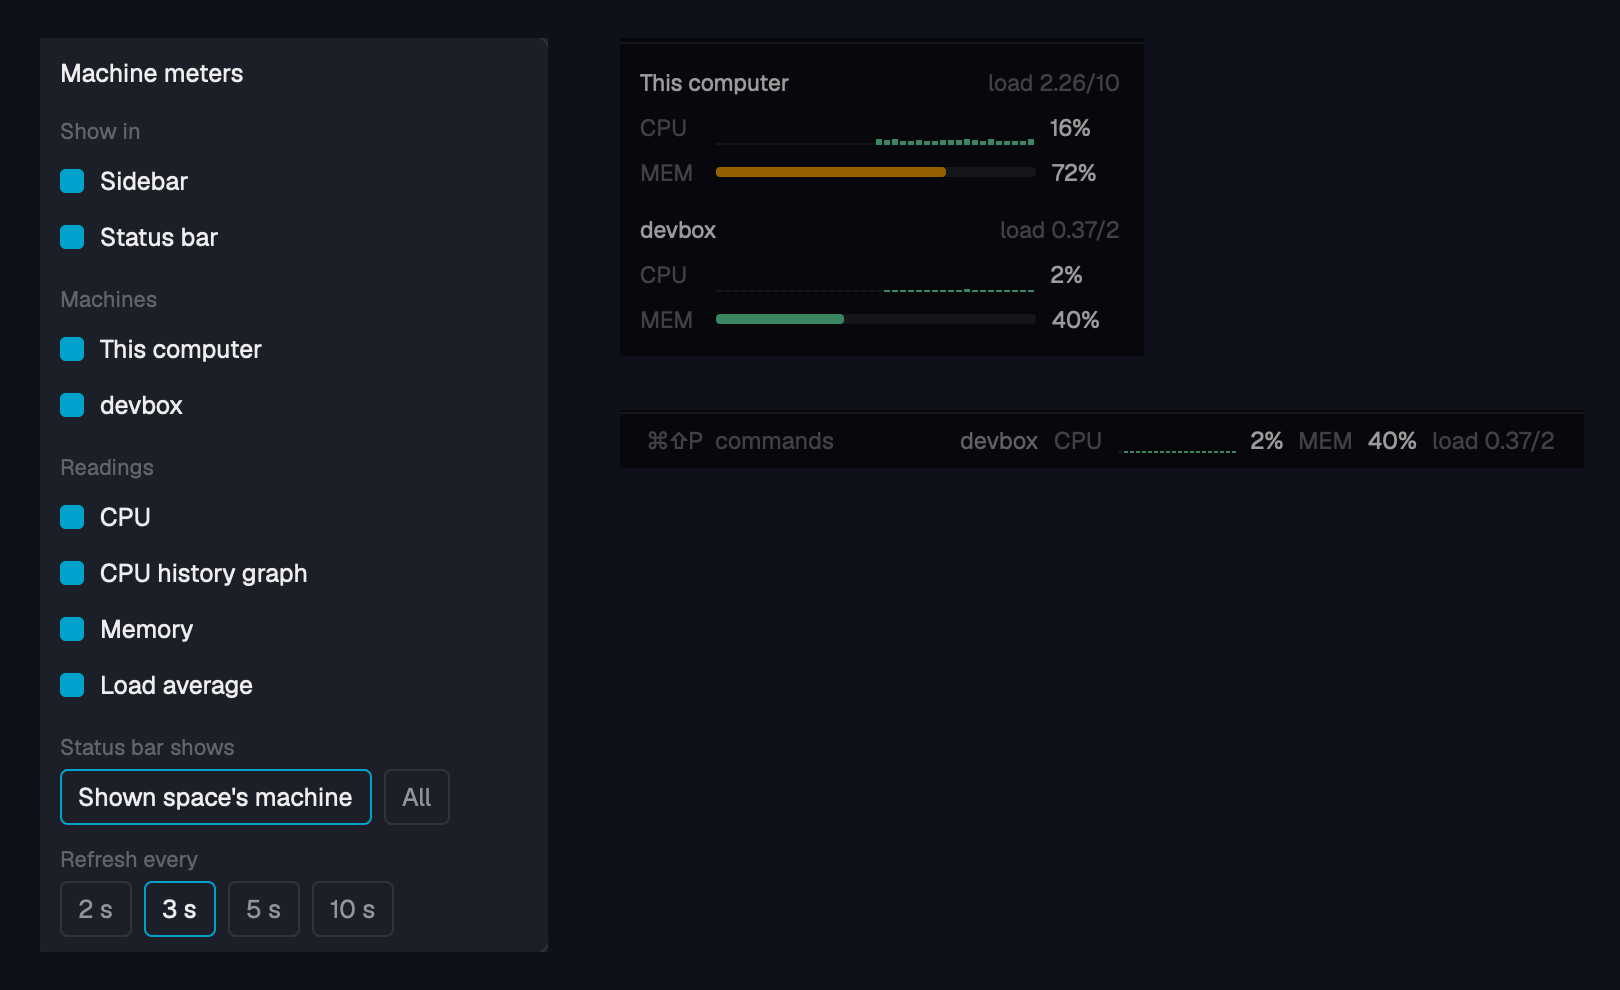
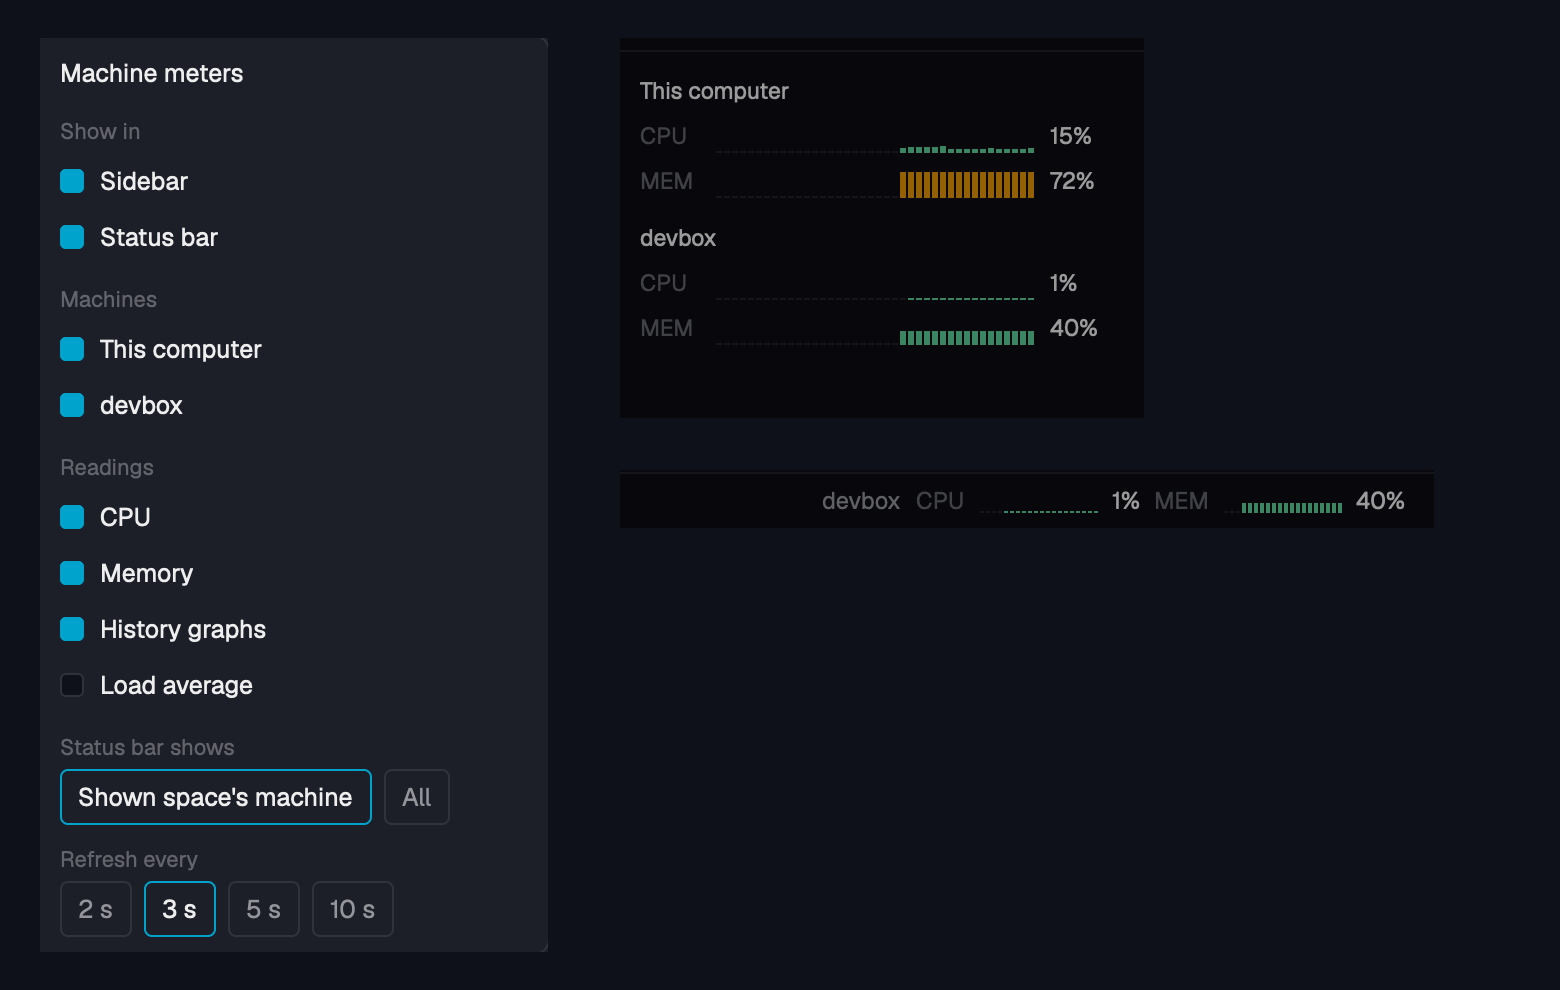
Memory history graph; options open in the middle of the window
The options opened at the pointer, and both meters sit at the window's
bottom edge, so the Show in and Machines sections were cut off.

diff --git a/mods/machine-meters/main.js b/mods/machine-meters/main.js
@@ -5,6 +5,7 @@ import { exec, machines, spaces, theme, props, shared, setShared, layout, run, o
 // CPU, memory and load of this computer and every connected machine (Linux and macOS):
 // a card per machine in the sidebar, and/or one line in the status bar (props: { variant: "bar" }).
 // A click opens the options (where to show, which machines, what to show); every copy shares them.
+// Both readings keep a history of the last 40 samples.
 const MOD = "machine-meters";
 const DEFAULTS = { interval: 3, cpu: true, mem: true, load: true, graph: true, bar: "active", hidden: [] };
 const opts = () => ({ ...DEFAULTS, ...(shared(MOD) || {}) });
@@ -20,6 +21,7 @@ else echo unsupported; fi`;
 // One sampler for every copy of the mod (module code is shared by copies): a sidebar card and a
 // status bar line cost one probe per machine, not two.
 const store = { m: {}, at: 0, busy: false, rev: 0 };
+const push = (hist, v) => { hist.push(Math.max(0, Math.round(v))); if (hist.length > POINTS) hist.shift(); };
 
 function parse(text, s) {
   const out = text.trim().split("\n");
@@ -44,10 +46,8 @@ function parse(text, s) {
     s.mem = Number(out[2]) ? Math.round((100 * used) / Number(out[2])) : null;
     cpu = Math.min(100, Number((text.match(/^cpu ([\d.]+)/m) || [0, 0])[1]) / (s.cores || 1));
   }
-  if (cpu != null) {
-    s.cpu.push(Math.max(0, Math.round(cpu)));
-    if (s.cpu.length > POINTS) s.cpu.shift();
-  }
+  if (cpu != null) push(s.cpu, cpu);
+  if (s.mem != null) push(s.mems, s.mem);
 }
 
 async function sample() {
@@ -56,7 +56,7 @@ async function sample() {
   const hidden = opts().hidden;
   const targets = machines().filter((m) => !hidden.includes(m.name ?? "") && (!m.name || m.layout !== "unavailable"));
   await Promise.all(targets.map(async ({ name }) => {
-    const s = (store.m[name ?? ""] ??= { cpu: [] });
+    const s = (store.m[name ?? ""] ??= { cpu: [], mems: [] });
     try {
       parse((await exec("sh", ["-c", PROBE], { on: name, timeout: 5000 })).stdout, s);
       s.ok = s.os === "linux" || s.os === "darwin";
@@ -93,7 +93,7 @@ function setPlace(place, on) {
   if (place === "bar") {
     const status = find(tree, "status");
     if (!status) return null;
-    const bar = { id: "status-meters", type: "block", size: { px: 360 }, content: { mod: MOD, props: { variant: "bar" } } };
+    const bar = { id: "status-meters", type: "block", size: { px: 430 }, content: { mod: MOD, props: { variant: "bar" } } };
     if (status.type === "block") {
       const main = { id: "status-main", type: "block", size: { weight: 1 }, content: status.content };
       delete status.content;
@@ -105,7 +105,7 @@ function setPlace(place, on) {
     const at = sidebar.children.findIndex((c) => c.id === "sidebar-footer");
     const shown = Math.max(1, machines().length - opts().hidden.length);
     sidebar.children.splice(at < 0 ? sidebar.children.length : at, 0,
-      { id: "meters", type: "block", size: { px: 12 + 73 * shown }, content: { mod: MOD } });
+      { id: "meters", type: "block", size: { px: 12 + 86 * shown }, content: { mod: MOD } });
   }
   return run("layout.set", { layout: tree });
 }
@@ -143,8 +143,8 @@ export default class MachineMeters extends View {
       .map(([key, s]) => ({ name: key || LOCAL, s }));
   }
 
-  graph(s, t, tone, w, h, n) {
-    const hist = Array.from({ length: n }, (_, i) => s.cpu[s.cpu.length - n + i]);
+  graph(samples, t, tone, w, h, n) {
+    const hist = Array.from({ length: n }, (_, i) => samples[samples.length - n + i]);
     return h_flex().h(h).gap(1).items_end().children(
       hist.map((p) => div().w(w).h(Math.max(1, ((p ?? 0) * h) / 100)).bg(p == null ? t.border : tone(p))));
   }
@@ -178,7 +178,7 @@ export default class MachineMeters extends View {
       .child(head("Show in")).child(place("panel", "Sidebar")).child(place("bar", "Status bar"))
       .child(head("Machines")).children(machines().map(machine))
       .child(head("Readings"))
-      .child(toggle("cpu", "CPU")).child(toggle("graph", "CPU history graph")).child(toggle("mem", "Memory")).child(toggle("load", "Load average"))
+      .child(toggle("cpu", "CPU")).child(toggle("mem", "Memory")).child(toggle("graph", "History graphs")).child(toggle("load", "Load average"))
       .child(head("Status bar shows"))
       .child(h_flex().gap(6).px(6).child(choice("bar", "active", "Shown space's machine")).child(choice("bar", "all", "All")))
       .child(head("Refresh every"))
@@ -189,7 +189,7 @@ export default class MachineMeters extends View {
     if (this.isSettings()) return this.settings();
     const t = theme(), o = opts();
     const tone = (p) => (p >= 85 ? t.ansi1 : p >= 60 ? t.ansi3 : t.ansi2);
-    const open = () => openOverlay({ mod: MOD, props: { view: "settings" }, kind: "popup", width: 260, height: 396 + 26 * machines().length, at: "pointer" });
+    const open = () => openOverlay({ mod: MOD, props: { view: "settings" }, kind: "dialog", width: 260, height: 396 + 26 * machines().length });
     const dim = (text) => div().text_color(t.dim).child(text);
     const val = (text) => div().text_color(t.foreground).child(text);
 
@@ -200,8 +200,8 @@ export default class MachineMeters extends View {
         .text_size(11.8).on_click(open).children(rows.map(({ name, s }) => {
           const cpu = s.cpu.at(-1);
           return h_flex().gap(7).items_center().child(div().text_color(t.muted).child(name))
-            .when(o.cpu, (el) => el.child(dim("CPU")).when(o.graph, (e) => e.child(this.graph(s, t, tone, 2, 12, 20))).child(val(cpu == null ? "–" : `${cpu}%`)))
-            .when(o.mem, (el) => el.child(dim("MEM")).child(val(s.mem == null ? "–" : `${s.mem}%`)))
+            .when(o.cpu, (el) => el.child(dim("CPU")).when(o.graph, (e) => e.child(this.graph(s.cpu, t, tone, 2, 12, 20))).child(val(cpu == null ? "–" : `${cpu}%`)))
+            .when(o.mem, (el) => el.child(dim("MEM")).when(o.graph, (e) => e.child(this.graph(s.mems, t, tone, 2, 12, 20))).child(val(s.mem == null ? "–" : `${s.mem}%`)))
             .when(o.load && Boolean(s.load), (el) => el.child(dim(`load ${s.load}/${s.cores}`)));
         }));
     }
@@ -212,8 +212,8 @@ export default class MachineMeters extends View {
       return v_flex().gap(4)
         .child(h_flex().justify_between().child(div().text_color(t.foreground).font_semibold().child(name))
           .child(dim(o.load && s.load ? `load ${s.load}/${s.cores}` : "")))
-        .when(o.cpu, (el) => el.child(line("CPU", o.graph ? this.graph(s, t, tone, 3, 18, POINTS) : this.meter(cpu, t, tone, POINTS * 4), cpu == null ? "–" : `${cpu}%`)))
-        .when(o.mem, (el) => el.child(line("MEM", this.meter(s.mem, t, tone, POINTS * 4), s.mem == null ? "–" : `${s.mem}%`)));
+        .when(o.cpu, (el) => el.child(line("CPU", o.graph ? this.graph(s.cpu, t, tone, 3, 18, POINTS) : this.meter(cpu, t, tone, POINTS * 4), cpu == null ? "–" : `${cpu}%`)))
+        .when(o.mem, (el) => el.child(line("MEM", o.graph ? this.graph(s.mems, t, tone, 3, 18, POINTS) : this.meter(s.mem, t, tone, POINTS * 4), s.mem == null ? "–" : `${s.mem}%`)));
     });
     return v_flex().id("meters-panel").size_full().bg(t.chrome).border_t(1).border_color(t.border).px(14).py(10).gap(10).text_size(11.5)
       .overflow_y_scrollbar().on_click(open).children(rows.length ? rows : [dim("waiting for machines…")]);

diff --git a/RECIPE.md b/RECIPE.md
@@ -10,17 +10,18 @@ Live CPU, memory and load for this computer and every machine added to Herdr, as
 
 - A title row: the machine's name in `foreground`, semibold, on the left (`This computer` for the local one); `load 0.45/2` in `dim` on the right (1-minute load average over the core count).
 - A `CPU` row: the label in `dim`, 30 px wide; a history graph of the last 40 samples, 18 px high, each sample a 3 px bar with 1 px between, missing samples a 1 px bar in `border`; then the current percentage in `foreground`.
-- A `MEM` row: the same label; a 160 px by 5 px rounded track in `border` filled to the used share; then the percentage.
+- A `MEM` row: the same label, the same graph of the used share, then the percentage.
+- Without history graphs, each row draws a 160 px by 5 px rounded track in `border`, filled to the current value.
 
-**Status bar line** (a 360 px block at the right end of the 28 px status row, `chrome` background, 1 px top border, text 11.8 px, content right-aligned): the machine's name in `muted`, `CPU` in `dim`, a 20-sample graph 12 px high with 2 px bars, the percentage, `MEM` and its percentage, then `load 0.45/2` in `dim`. Groups are 18 px apart, items in a group 7 px.
+**Status bar line** (a 430 px block at the right end of the 28 px status row, `chrome` background, 1 px top border, text 11.8 px, content right-aligned): the machine's name in `muted`, `CPU` in `dim`, a 20-sample graph 12 px high with 2 px bars, the percentage, `MEM` with the same graph and its percentage, then `load 0.45/2` in `dim`. Groups are 18 px apart, items in a group 7 px.
 
 **Colors of bars and fills:** `ansi2` (green) below 60%, `ansi3` (yellow) from 60%, `ansi1` (red) from 85%.
 
-**Options popup** (260 px wide, `popover` background, text 12.5 px): the title `Machine meters`, then five sections with an 11 px `dim` heading each:
+**Options dialog** (260 px wide, in the middle of the window, `popover` background, text 12.5 px): the title `Machine meters`, then five sections with an 11 px `dim` heading each:
 
 1. `Show in`: `Sidebar`, `Status bar`.
 2. `Machines`: `This computer` and one row per machine.
-3. `Readings`: `CPU`, `CPU history graph`, `Memory`, `Load average`.
+3. `Readings`: `CPU`, `Memory`, `History graphs`, `Load average`.
 4. `Status bar shows`: two chips, `Shown space's machine` and `All`.
 5. `Refresh every`: four chips, `2 s`, `3 s`, `5 s`, `10 s`.
 
@@ -33,8 +34,8 @@ A row is a 12 px rounded box (filled `accent` when on, `surface` with an `input`
 - The status bar shows the machine of the shown space, and changes when the space does. With `All` it shows every ticked machine.
 - A machine that is offline, or that has no `sh` (Windows), is left out. It comes back when a probe succeeds.
 - Until the first sample arrives the card says `waiting for machines…`; a Linux machine shows a dash for CPU until its second sample.
-- Without `CPU history graph`, the sidebar draws CPU as a bar like memory and the status bar drops the graph.
-- A click anywhere on the card or the line opens the options at the pointer. Esc closes them.
+- Without `History graphs`, the sidebar draws CPU and memory as bars and the status bar shows only the numbers.
+- A click anywhere on the card or the line opens the options. Esc closes them.
 - `Sidebar` and `Status bar` show or hide that block. If the shown layout has no such block, ticking adds one: the sidebar block before the node `sidebar-footer` in the column `sidebar`; the status bar block at the right end of the node `status` (a lone status block becomes a row that keeps it). A place the layout has no block for is marked `not in this layout`.
 - Unticking a machine hides it and stops sampling it.
 - `herdr-app do mod.open --name machine-meters` opens the options without a block on screen.
@@ -42,10 +43,10 @@ A row is a 12 px rounded box (filled `accent` when on, `surface` with an `input`
 ## Built from
 
 - One mod, `mods/machine-meters/`: `main.js` and `mod.json` (`{ "place": "none", "overlay": { "width": 260, "height": 460 } }`).
-- Props: none for the sidebar card; `{ "variant": "bar" }` for the status bar line; `{ "view": "settings" }` for the options popup. Opened as an overlay with no variant, the mod shows the options.
+- Props: none for the sidebar card; `{ "variant": "bar" }` for the status bar line; `{ "view": "settings" }` for the options dialog. Opened as an overlay with no variant, the mod shows the options.
 - From `herdr`: `exec`, `machines`, `spaces`, `theme`, `props`, `shared`, `setShared`, `layout`, `run`, `openOverlay`, `checking`. Commands: `layout.show`, `layout.hide`, `layout.set`.
 - Options live in shared state under the key `machine-meters`: `{ interval, cpu, mem, load, graph, bar: "active" | "all", hidden: [machine names, "" for this computer] }`.
-- The sampler is module-level state (`store`): per machine the CPU history, memory, load, cores and the previous `/proc/stat` totals; a revision counter that copies compare to know when to redraw. Each copy has a 1-second timer that samples when the interval is up.
+- The sampler is module-level state (`store`): per machine the CPU and memory histories (40 samples each), load, cores and the previous `/proc/stat` totals; a revision counter that copies compare to know when to redraw. Each copy has a 1-second timer that samples when the interval is up.
 - The probe is one `sh -c` per machine (`exec` with `on: name`, 5-second timeout):
   - Linux (`/proc/stat` readable): the first line of `/proc/stat`, `MemTotal` and `MemAvailable` from `/proc/meminfo`, `nproc`, the first field of `/proc/loadavg`. CPU is `1 - idle change / total change` between two samples, with iowait counted as idle.
   - macOS (`uname` is `Darwin`): `sysctl -n hw.ncpu hw.memsize vm.loadavg`, `vm_stat`, and `ps -A -o %cpu=` summed. Memory used is active + wired + compressed pages times the page size, over `hw.memsize`. CPU is the `ps` sum over the core count, capped at 100.
@@ -55,8 +56,9 @@ A row is a 12 px rounded box (filled `accent` when on, `surface` with an `input`
 
 - Herdr's shipped layouts refuse structure changes, so adding a block only works on a personal layout (`layout.clone`). `run` returns nothing, so the mod cannot tell that a shipped layout refused; the place just stays `not in this layout`.
 - Adding a block looks for the node ids `sidebar`, `sidebar-footer` and `status`. Layouts with other ids need the blocks placed by hand (see the README).
-- The sidebar block has a fixed height, set for the machines shown when it was added (73 px each plus 12). With more machines the card scrolls; resize the block.
-- The status bar block is 360 px, room for one machine. `All` with several machines needs a wider block.
+- The sidebar block has a fixed height, set for the machines shown when it was added (86 px each plus 12). With more machines the card scrolls; resize the block.
+- The status bar block is 430 px, room for one machine. `All` with several machines needs a wider block.
+- Open the options as a dialog, not a popup at the pointer: both meters sit at the window's bottom edge, where a pointer popup loses its top sections.
 - The macOS CPU figure comes from `ps` and is a short average, so it lags and differs from Activity Monitor's.
 - Windows machines are not supported.
 - Every new sample redraws the Herdr window, as any mod redraw does. Keep the timer at 1 second and redraw only when the sampler's revision changed.
@@ -66,7 +68,7 @@ A row is a 12 px rounded box (filled `accent` when on, `surface` with an `input`
 ## Done when
 
 - `herdr-app check mods/machine-meters` passes, and `node test.mjs` prints `ok`.
-- With a Linux machine added and a block in the sidebar, the card shows `This computer` and the machine, each with a load figure, a CPU graph that grows from the right and a memory bar.
+- With a Linux machine added and a block in the sidebar, the card shows `This computer` and the machine, each with a load figure and CPU and memory graphs that grow from the right.
 - With the status bar block, the line shows the shown space's machine and follows a switch to a space on another machine.
 - `herdr-app do mod.open --name machine-meters` opens the options; unticking `Status bar` hides the line and ticking it brings it back.
 - Unticking a machine removes it from both places within one refresh.

diff --git a/README.md b/README.md
@@ -5,9 +5,9 @@ A mod for the [Herdr](https://herdr.dev) desktop app: live CPU, memory and load 
 ![Machine meters](preview.png)
 
 - **Every machine, local or over ssh.** Linux and macOS. Nothing to install on the machine: one small shell call per sample.
-- **Sidebar and status bar.** A card per machine with a CPU history graph in the sidebar; one line in the status bar that follows the machine of the space you are looking at. Turn either on or off from the mod's options.
+- **Sidebar and status bar.** A card per machine with CPU and memory history graphs in the sidebar; one line in the status bar that follows the machine of the space you are looking at. Turn either on or off from the mod's options.
 - **Pick your machines.** Tick the ones to show; unticked machines are not sampled.
-- **Pick your readings.** CPU, the CPU history graph, memory and load average, each on or off. Refresh every 2, 3, 5 or 10 seconds.
+- **Pick your readings.** CPU, memory, their history graphs and load average, each on or off. Refresh every 2, 3, 5 or 10 seconds.
 - **Green, yellow, red.** Below 60%, from 60%, from 85%.
 
 This is an unofficial mod. It is not affiliated with Herdr.
@@ -45,24 +45,24 @@ To open the options from a key, add to `~/.config/herdr-app/keys.json`:
 In a layout with other ids than Herdr's `sidebar` and `status`, add the blocks where you want them:
 
 ```json
-{ "id": "meters", "type": "block", "size": { "px": 158 }, "content": { "mod": "machine-meters" } }
+{ "id": "meters", "type": "block", "size": { "px": 184 }, "content": { "mod": "machine-meters" } }
 ```
 
 ```json
-{ "id": "status-meters", "type": "block", "size": { "px": 360 }, "content": { "mod": "machine-meters", "props": { "variant": "bar" } } }
+{ "id": "status-meters", "type": "block", "size": { "px": 430 }, "content": { "mod": "machine-meters", "props": { "variant": "bar" } } }
 ```
 
-The sidebar card needs about 73 px a machine plus 12. The status bar line needs about 360 px a machine.
+The sidebar card needs about 86 px a machine plus 12. The status bar line needs about 430 px a machine.
 
 ## Options
 
-A click on either meter opens them. They are kept in Herdr's shared state under `machine-meters`, so every copy of the mod follows them.
+A click on either meter opens them in the middle of the window. They are kept in Herdr's shared state under `machine-meters`, so every copy of the mod follows them.
 
 | Option | What it does | Default |
 |---|---|---|
 | Show in: Sidebar, Status bar | shows or hides that block; adds it if the layout has none | as the layout has them |
 | Machines | which machines are shown and sampled | all |
-| CPU, CPU history graph, Memory, Load average | which readings to show; without the graph, CPU is a bar | all on |
+| CPU, Memory, History graphs, Load average | which readings to show; without the graphs, the sidebar draws a bar for each | all on |
 | Status bar shows | the shown space's machine, or all ticked machines | the shown space's machine |
 | Refresh every | 2, 3, 5 or 10 seconds | 3 seconds |
 
